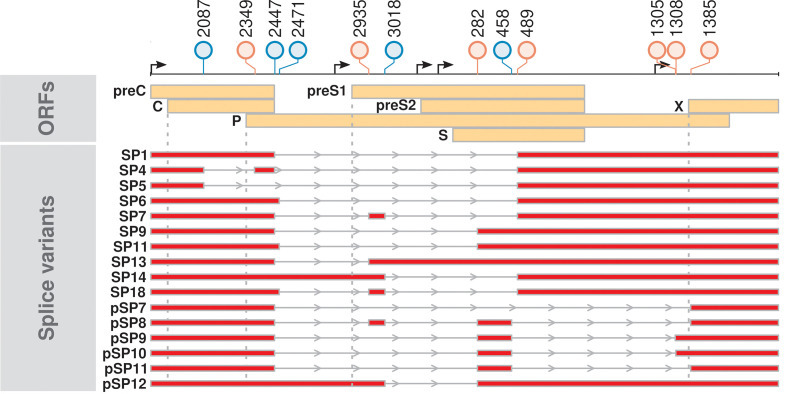
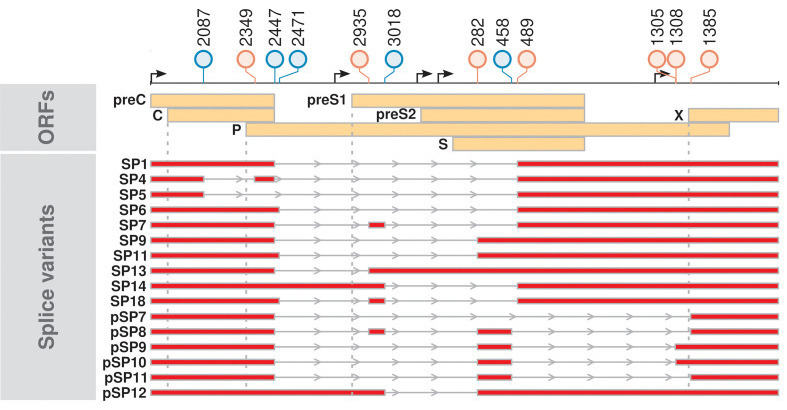
Update projects

diff --git a/_projects/1_project.md b/_projects/1_project.md
@@ -2,19 +2,19 @@
 layout: page
 title: A new role of introns?
 description: upstream open reading frame, translational control
-img: assets/img/12.jpg
+img: assets/img/gky282fig6.jpeg
 importance: 1
 category: work
 related_publications: true
 ---
 
-We are investigating a new mechanism that regulates gene expression through upstream open reading frames {% cite lim2018exon %}. We estimate that ~30% of messenger RNAs are regulated by this new mechanism. We are developing computational and experimental methods (e.g., quantitative proteomics) to study this new mechanism.
+We are investigating a new mechanism that regulates gene expression through upstream open reading frames and introns in the 5'UTRs {% cite lim2018exon %}. We estimate that ~30% of mRNAs are regulated by this new mechanism. We are developing computational and experimental methods (e.g., quantitative proteomics) to study this new mechanism.
 
 <div class="row">
     <div class="col-sm mt-3 mt-md-0">
-        {% include figure.liquid loading="eager" path="assets/img/5.jpg" title="example image" class="img-fluid rounded z-depth-1" %}
+        {% include figure.liquid loading="eager" path="assets/img/gky282fig6.jpeg" title="Class I" class="img-fluid rounded z-depth-1" %}
     </div>
 </div>
 <div class="caption">
-    This image can also have a caption. It's like magic.
+    Distinct triplet periodicity of ribosome profiles on mRNAs with upstream open reading frames and 5'UTR introns.
 </div>
